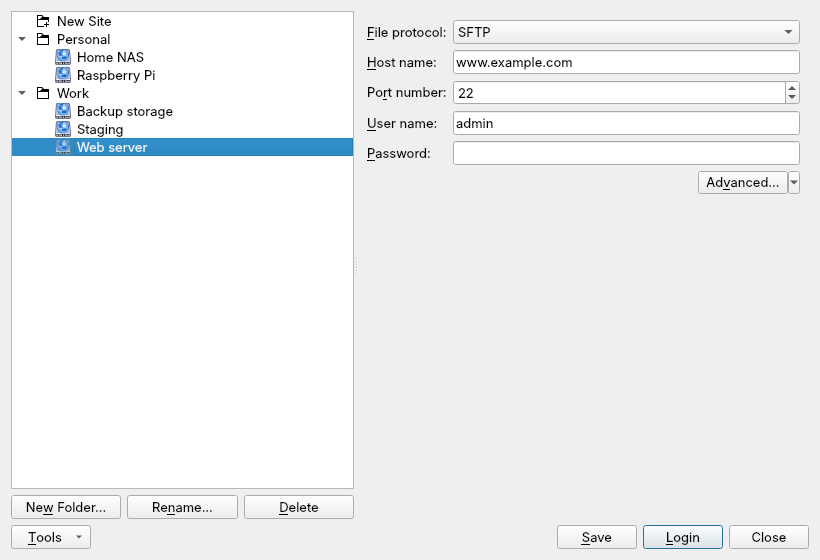
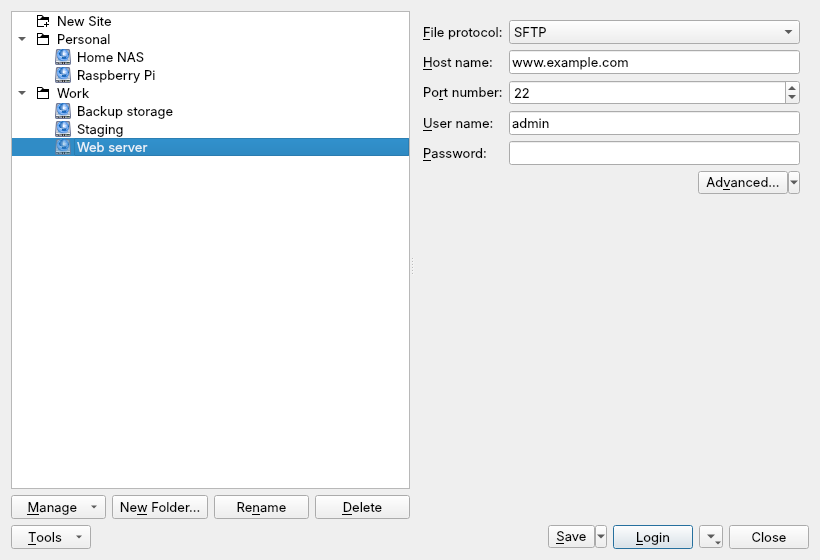
feat: new screenshots and the complete linscp-cli switch list
Screenshots retaken from the current build, with the Generate URL dialog
and the Transfer presets page added to the manual and the home gallery.
The command reference now covers /identity and /fingerprintscan, and
reads linscp's own version from the program.

diff --git a/src/content/docs/manual/transfers/transfer-settings.md b/src/content/docs/manual/transfers/transfer-settings.md
@@ -69,6 +69,8 @@ downloaded files.
 Manage presets in **Options › Preferences › Transfer**. The first entry is
 the default settings; the others are presets.
 
+![The Transfer page of Preferences, listing the Default settings and the Text, Binary, New and updated files only and Exclude directories presets](../../../../assets/screenshots/preferences-transfer.png)
+
 1. Click **Add...**, or select a preset and click **Duplicate...**.
 2. Enter a **Preset description**, for example *Website upload*.
 3. Change the settings and click **OK**.

diff --git a/src/content/docs/manual/connecting/session-urls.md b/src/content/docs/manual/connecting/session-urls.md
@@ -58,6 +58,8 @@ saved site. The **URL** tab builds the address; check what it should carry:
 tabs give the same connection as a script for `linscp-cli` or as code for the
 .NET assembly. **Copy to Clipboard** takes the result.
 
+![The Generate Session URL/Code dialog on its URL tab, with Username and Initial directory checked](../../../../assets/screenshots/generate-url.png)
+
 ## Opening links from a browser
 
 The linscp desktop entry registers it for `sftp:`, `scp:`, `ftp:`, `ftps:`,
